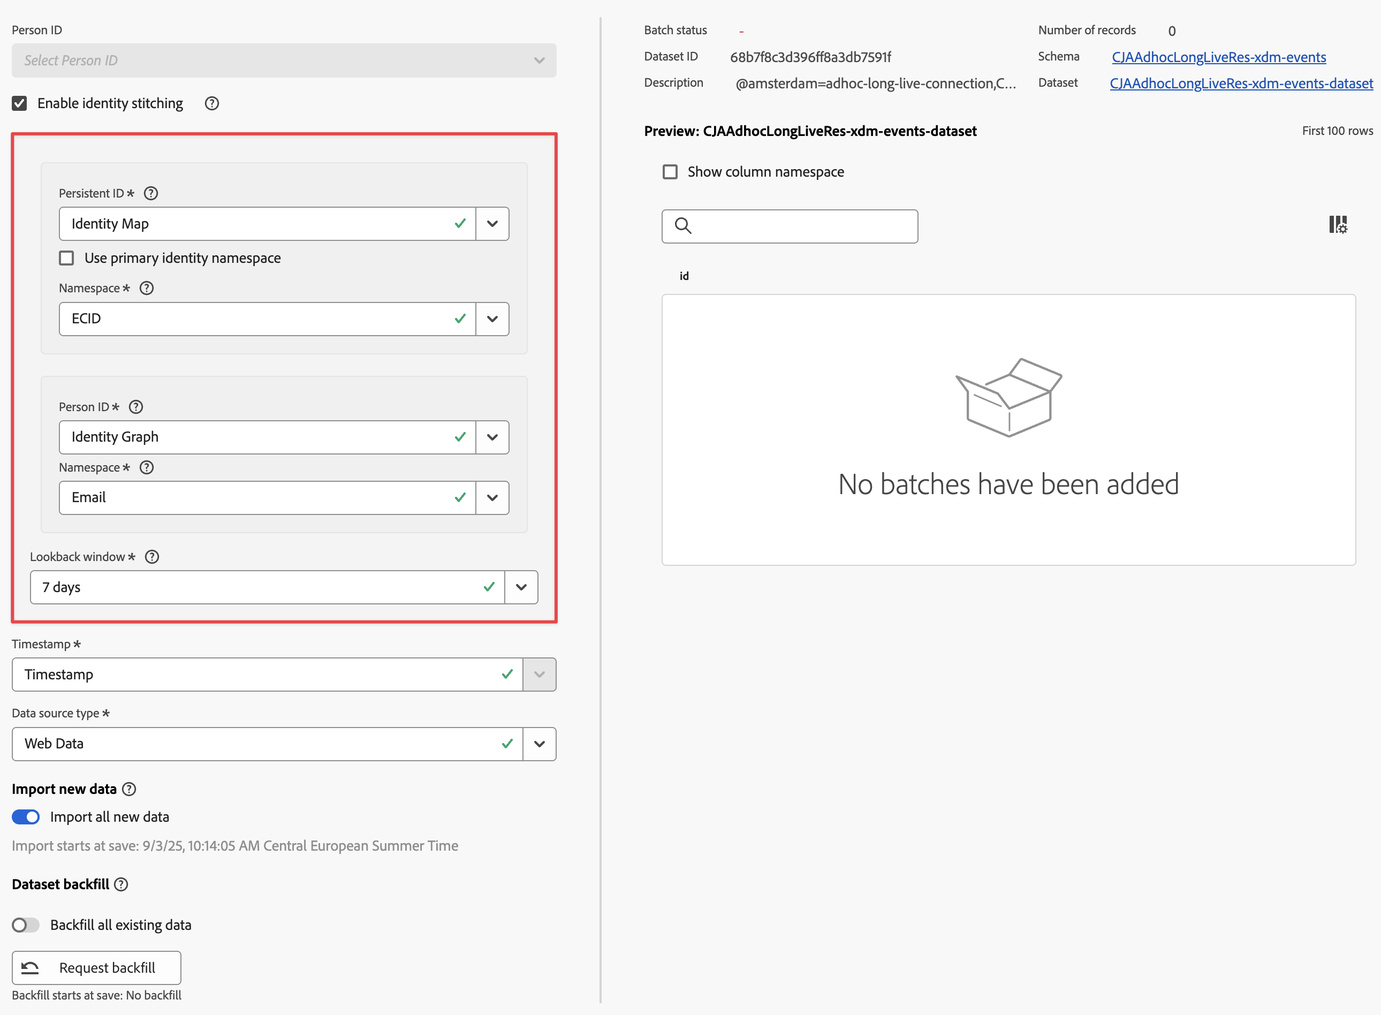
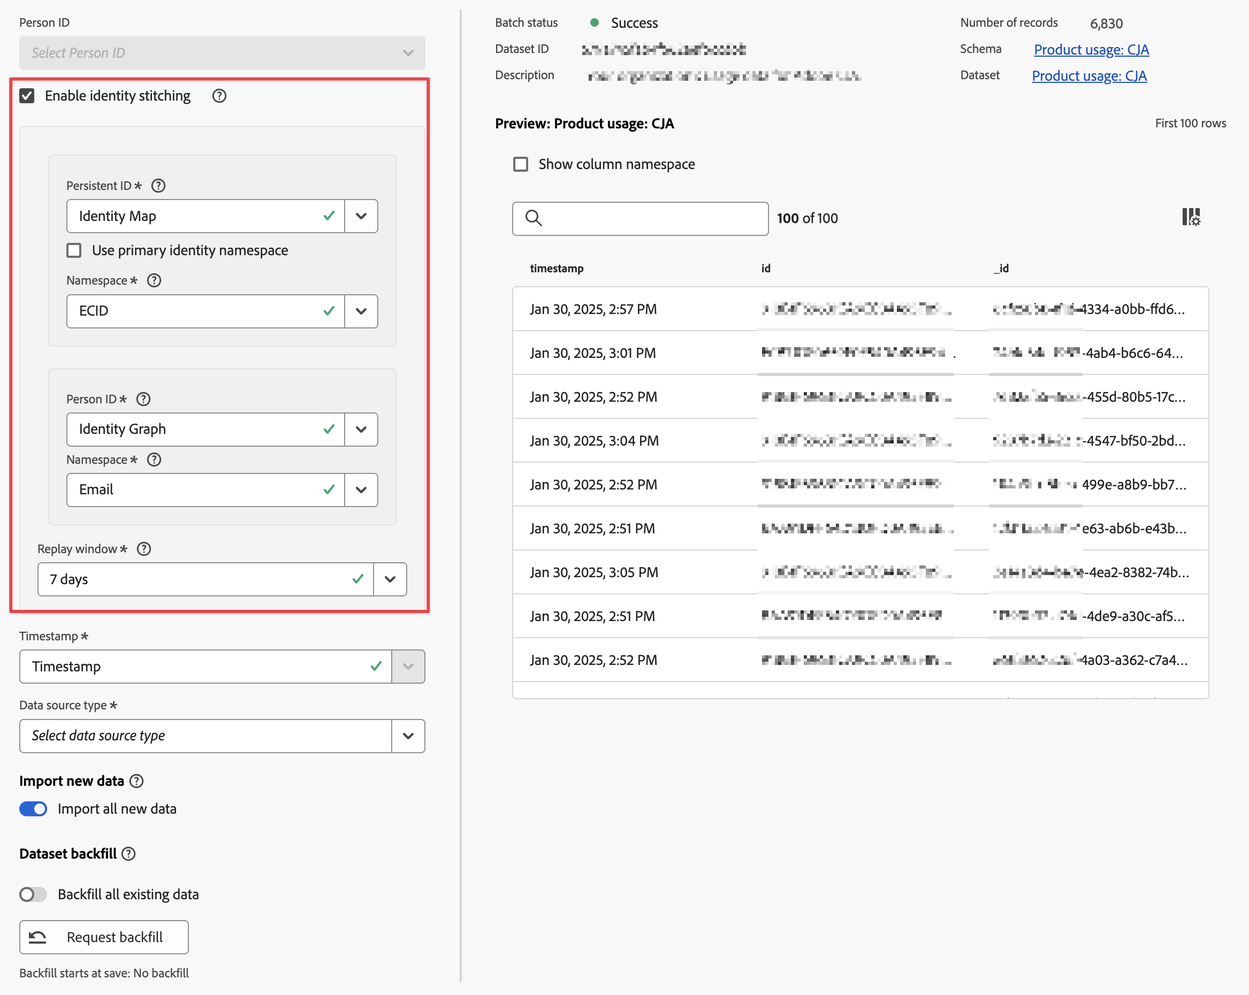
Updates based on feedback

diff --git a/help/stitching/use-stitching-ui.md b/help/stitching/use-stitching-ui.md
@@ -14,22 +14,19 @@ You can enable stitching as part of the [dataset settings](/help/connections/cre
 
 ## Prerequisites
 
-To enable stitching on an event dataset within the Connections UI: 
+You need to check and meet the prerequisites for the stitching method you specify: [field-based stitching](fbs.md#prerequisites) or [graph-based stitching](gbs.md#prerequisites).
 
-* The schema on which the dataset is based should have:
-
-  * multiple fields that are configured as an identity, and which allows you to select different values for a persistent ID and a person ID.
-  * at least one field that is marked as primary identity with an associated namespace in case you want to use Identity Map and the primary identity namespace for persistent ID or person ID.
-
-* If you want to use graph-based stitching and you anticipate the event dataset to contribute to the Identity Graph (as the dataset contains relevant person IDs next to persistent IDs), you should [enable the dataset for the Identity service](/help/stitching/faq.md#enable-a-dataset-for-the-identity-service).
 
 ## Preflight checks
 
 If you meet the prerequisites, you might want to perform some preflight checks on the data in the event dataset before you enable identity stitching:
 
-* Ensure that identities are marked properly in the schema for the event dataset. [See Identity namespace overview](https://experienceleague.adobe.com/en/docs/experience-platform/identity/features/namespaces).
+* f you are going to use XDM schema fields for persistent ID /person ID, ensure that identities are marked properly in the schema for the event dataset. [See Identity namespace overview](https://experienceleague.adobe.com/en/docs/experience-platform/identity/features/namespaces).
 * Verify identity coverage for both persistent ID and person ID:
-  * Persistent ID: Query 7 days of data where your persistent ID field is not null and divide by a query of 7 days of data for all events in your dataset. This percentage should be above 95%.
+  
+  * **Persistent ID**
+  
+    Query 7 days of data where your persistent ID field is not null and divide by a query of 7 days of data for all events in your dataset. This percentage should be above 95%.
 
     Example of a query you could use for verification:
 
@@ -54,39 +51,35 @@ If you meet the prerequisites, you might want to perform some preflight checks o
     * `{END_DATE}` is the end date in standard format. For example: `2024-01-08 00:00:00`.
   
 
-  * Person ID - Query 7 days of data where your person ID field is not null and divide by a query of 7 days of data for all events in your dataset. This percentage should be above 5%.
+  * **Person ID**
+    * For graph-based stitching, ensure the identity graph contains fragments that link ID values from your chosen persistent ID namespace and person ID namespace. You could run a test by going to the [Experience Platform Identity graph viewer](https://experienceleague.adobe.com/en/docs/experience-platform/identity/features/identity-graph-viewer){target="_blank"} and query the graph by some test persistent ID values. Verify to see if these persistent ID values are linked to Person ID values in the graph.
+    * For field-based stitching, query 7 days of data where your person ID field is not null and divide by a query of 7 days of data for all events in your dataset. This percentage should ideally above 5%.
 
-     Example of a query you could use for verification:
+      Example of a query you could use for verification:
 
-    ```sql
-    SELECT
-      COUNT(*) AS total_events,
-      COUNT({PERSON_ID_FIELD}) AS events_with_personid,
-      ROUND(COUNT({PERSON_ID_FIELD}) / COUNT(*), 2) AS percent_with_personid_not_null
-    FROM 
-      {DATASET_TABLE_NAME}
-    WHERE
-      TO_TIMESTAMP(timestamp, '{FORMAT_STRING}') >= TIMESTAMP '{START_DATE}'
-      AND TO_TIMESTAMP(timestamp, 'FORMAT_STRING') < TIMESTAMP '{END_DATE}';
-    ```
+      ```sql
+      SELECT
+        COUNT(*) AS total_events,
+        COUNT({PERSON_ID_FIELD}) AS events_with_personid,
+        ROUND(COUNT({PERSON_ID_FIELD}) / COUNT(*), 2) AS percent_with_personid_not_null
+      FROM 
+        {DATASET_TABLE_NAME}
+      WHERE
+        TO_TIMESTAMP(timestamp, '{FORMAT_STRING}') >= TIMESTAMP '{START_DATE}'
+        AND TO_TIMESTAMP(timestamp, 'FORMAT_STRING') < TIMESTAMP '{END_DATE}';
+      ```
 
-    Where:
+      Where:
 
-    * `{PERSON_ID_FIELD}` is the field for the person ID. For example: `identityMap.crmId[0]`.
-    * `{DATASET_TABLE_NAME}` is the table name for the event dataset.
-    * `{FORMAT_STRING}` is the format string for the timestamp field. For example: `MM/DD/YY HH12:MI AM`.
-    * `{START_DATE}` is the start date. For example: `2024-01-01 00:00:00`.
-    * `{END_DATE}` is the end date in standard format. For example: `2024-01-08 00:00:00`.
+      * `{PERSON_ID_FIELD}` is the field for the person ID. For example: `identityMap.crmId[0]`.
+      * `{DATASET_TABLE_NAME}` is the table name for the event dataset.
+      * `{FORMAT_STRING}` is the format string for the timestamp field. For example: `MM/DD/YY HH12:MI AM`.
+      * `{START_DATE}` is the start date. For example: `2024-01-01 00:00:00`.
+      * `{END_DATE}` is the end date in standard format. For example: `2024-01-08 00:00:00`.
   
 
 
 ## Enable identity stitching
-
->[!NOTE]
->
->If **[!UICONTROL Enable identity stitching]** is not available in the Connections interface, use the [request procedure to enable stitching](/help/stitching/use-stitching.md) on a dataset.
-
-
 
 To enable stitching, in the event dataset section of the **[!UICONTROL Add datasets]** or **[!UICONTROL Edit dataset]** dialog: 
 
@@ -94,7 +87,7 @@ To enable stitching, in the event dataset section of the **[!UICONTROL Add datas
 
 1. Select **[!UICONTROL Enable identity stitching]**.
    
-   If you enable stitching for an existing event dataset, the **[!UICONTROL Change Person ID]** dialog displays the implications of a change of the person ID due to the use of stitching. Select **[!UICONTROL Continue]** to continue.
+   If you enable or disable stitching for a saved event dataset in the connection, the **[!UICONTROL Change Person ID]** dialog displays the implications of a change of the person ID. Select **[!UICONTROL Continue]** to continue.
 
    The **[!UICONTROL Enable identity stitching]** dialog summarizes the consequences of stitching identities. Select **[!UICONTROL Continue]** to continue.
 
@@ -120,12 +113,12 @@ To enable stitching, in the event dataset section of the **[!UICONTROL Add datas
    >Ensure that you are entitled to use the identity graph.
    >
 
-   Before that, a **[!UICONTROL Change to identity graph]** dialog is displayed to ensure you have [finished the setup of the identity graph for the dataset](/help/stitching/faq.md#enable-a-dataset-for-the-identity-service) before you use the identity graph for stitching. Select **[!UICONTROL Continue]** to continue.
+   Before that, a **[!UICONTROL Change to identity graph]** dialog is displayed to ensure you have finished the setup of the identity graph for the dataset as part of the [graph-based prerequisites](/help/stitching/gbs.md#prerequisites) before you use the identity graph for stitching. Select **[!UICONTROL Continue]** to continue.
 
    * Select a namespace from the **[!UICONTROL Namespace]** drop-down menu.
 
 
-1. Select a lookback window from the **[!UICONTROL Lookback window]** drop-down menu. The available options are  dependent on the Customer Journey Analytics package that you are entitled to.
+1. Select a replay window from the **[!UICONTROL Replay window]** drop-down menu. The available options are  dependent on the Customer Journey Analytics package that you are entitled to.
 
 Once you save a connection, the stitching process for datasets that are enabled for stitching kicks when the ingestion of data for these datasets starts.
 

diff --git a/help/connections/create-connection.md b/help/connections/create-connection.md
@@ -798,7 +798,7 @@ If you select Identity Map, you get two additional configuration options:
 
 |Option|Description|
 |---|---|
-| **[!UICONTROL Use Primary ID Namespace]** | This option instructs Customer Journey Analytics to find the identity in the Identity Map that is marked with a `primary=true` attribute and use that identity as the Person ID for that row. This identity is the primary key that is used in Experience Platform for partitioning. And this identity is also the prime candidate for usage as Customer Journey Analytics Person ID (depending on how the dataset is configured in a Customer Journey Analytics connection).|
+| **[!UICONTROL Use primary identity namespace]** | This option instructs Customer Journey Analytics to find the identity in the Identity Map that is marked with a `primary=true` attribute and use that identity as the Person ID for that row. This identity is the primary key that is used in Experience Platform for partitioning. And this identity is also the prime candidate for usage as Customer Journey Analytics Person ID (depending on how the dataset is configured in a Customer Journey Analytics connection).|
 | **[!UICONTROL Namespace]**| (This option is only available if you do not use the Primary ID Namespace.) Identity namespaces are a component of the [Experience Platform Identity Service](https://experienceleague.adobe.com/en/docs/experience-platform/identity/features/namespaces). Namespaces serve as indicators of the context to which an identity relates. If you specify a namespace, Customer Journey Analytics searches each row's Identity Map for this namespace key and use the identity under that namespace as the Person ID for that row. Since Customer Journey Analytics cannot do a full dataset scan of all rows to determine which namespaces are present, all possible namespaces are displayed in the drop-down menu. Know which namespaces are specified in the data; these namespaces are not auto-detected. |
 
 {style="table-layout:auto"}
@@ -809,8 +809,8 @@ This table shows the two configuration options when edge cases are present and h
 
 | Option | No IDs are present in the Identity Map | Multiple IDs, none marked as primary | Multiple IDs are marked as primary | Single ID, marked as primary or not | Invalid namespace with an ID marked as primary |
 |---|---|---|---|---|---|
-| **[!UICONTROL Use Primary ID Namespace] checked** | Customer Journey Analytics drops the row. | Customer Journey Analytics drops the row, as no primary ID is specified. | All IDs marked as primary, under all namespaces, are extracted into a list. They are then alphabetically sorted; with the new sorting, the first namespace with its first ID is used as the Person ID. | The single ID is used as the Person ID. | Even though the namespace may be invalid (not present in Adobe Experience Platform), Customer Journey Analytics uses the primary ID under that namespace as the Person ID. |
-| **[!UICONTROL Specific Identity Map namespace] selected** | Customer Journey Analytics drops the row. | All IDs under the selected namespace are extracted into a list and the first is used as the Person ID. | All IDs under the selected namespace are extracted into a list and the first is used as the Person ID. | All IDs under the selected namespace are extracted into a list and the first is used as the Person ID. | All IDs under the selected namespace are extracted into a list and the first is used as the Person ID. (Only a valid namespace can be selected at Connection creation time, so it is not possible for an invalid namespace/ID to be used as Person ID) |
+| **[!UICONTROL Use primary identity namespace] checked**<br/>![Use primary identity namespace](assets/use-primary-identity-namespace.png) | Customer Journey Analytics drops the row. | Customer Journey Analytics drops the row, as no primary ID is specified. | All IDs marked as primary, under all namespaces, are extracted into a list. They are then alphabetically sorted; with the new sorting, the first namespace with its first ID is used as the Person ID. | The single ID is used as the Person ID. | Even though the namespace may be invalid (not present in Adobe Experience Platform), Customer Journey Analytics uses the primary ID under that namespace as the Person ID. |
+| **[!UICONTROL Specific Identity Map namespace] selected**<br/>![Not use primary identity namespace](assets/not-use-primary-identity-namespace.png)| Customer Journey Analytics drops the row. | All IDs under the selected namespace are extracted into a list and the first is used as the Person ID. | All IDs under the selected namespace are extracted into a list and the first is used as the Person ID. | All IDs under the selected namespace are extracted into a list and the first is used as the Person ID. | All IDs under the selected namespace are extracted into a list and the first is used as the Person ID. (Only a valid namespace can be selected at Connection creation time, so it is not possible for an invalid namespace/ID to be used as Person ID) |
 
 {style="table-layout:auto"}
 

diff --git a/help/stitching/overview.md b/help/stitching/overview.md
@@ -10,11 +10,11 @@ role: Admin
 
 >[!NOTE]
 >
->You must have the **Select** package or higher (for [field-based stitching](fbs.md)) or **Prime** package or higher (for [graph-based stitching](gbs.md)) to use the functionality described in this section. Contact your administrator if you're unsure which Customer Journey Analytics package you have.
+>You must have the Customer Journey Analytics **Select** package or higher (for [field-based stitching](fbs.md)) or the Customer Journey Analytics **Prime** package or higher (for [graph-based stitching](gbs.md)) to use the functionality described in this section. Contact your administrator if you're unsure which Customer Journey Analytics package you have.
 
 Identity stitching (or simply, stitching) is a powerful feature that elevates an event dataset's suitability for cross-channel analysis. Cross-channel analysis is a main use case for Customer Journey Analytics. The feature allows you to combine and run reports seamlessly on multiple datasets from different channels, based on a common identifier (person ID).
 
-When you combine datasets with similar person IDs, attribution is carried over across devices and channels. For example, a user visits your site through an advertisement on their desktop computer. The users buys a product but then the user encounters an issue with the order order. The user then gives your customer service team a call to help resolve the issue. With cross-channel analysis, you can attribute call center events to the ad that the user originally clicked.
+When you combine datasets with similar person IDs, attribution is carried over across devices and channels. For example, a user visits your site through an advertisement on their desktop computer. The user buys a product but then the user encounters an issue with the order. The user then gives your customer service team a call to help resolve the issue. With cross-channel analysis, you can attribute call center events to the ad that the user originally clicked.
 
 Unfortunately, not all event-based datasets that are part of your connection in Customer Journey Analytics are sufficiently populated with data to support this attribution out of the box. Especially, web-based or mobile-based experience datasets often don't have actual person ID information available on all events.
 
@@ -30,7 +30,7 @@ Customer Journey Analytics supports two types of stitching: [field-based stitchi
 
 Before using stitching, make sure that your organization is prepared with the following:
 
-- Stitching includes merging authenticated and unauthenticated user data. Ensure that you comply with applicable laws and regulations, including obtaining necessary end-user permissions, before activating stitching on an event dataset. See [Define identity fields in the UI](https://experienceleague.adobe.com/en/docs/experience-platform/xdm/ui/fields/identity) for more information.
+- Stitching includes merging authenticated and unauthenticated user data. Ensure that you comply with applicable laws and regulations, including obtaining necessary end-user permissions, before activating stitching on an event dataset.
 
 - Import the desired data into Adobe Experience Platform:
   
@@ -47,15 +47,6 @@ You can enable stitching in two ways:
 - [Enable stitching in the Connections interface](/help/stitching/use-stitching-ui.md). When you configure stitching for a dataset in the Connections interface, the stiching occurs 'on the fly', during the ingestion of data from that dataset in Customer Journey Analytics.
 
 ## Limitations
-
->[!IMPORTANT]
->
->
->- Apply any change that you make to the source event dataset schema also to the new stitched dataset schema.
->
->- If you remove the source dataset, the stitched dataset stops processing and gets removed by the system.
->
->- Data usage labels are not automatically propagated to the stitched dataset schema. If you have data usage labels applied to the source dataset schema, you need to apply these data usage labels manually to the stitched dataset schema. See [Managing data usage labels in Experience Platform](https://experienceleague.adobe.com/en/docs/experience-platform/data-governance/labels/overview) for more information.
 
 Stitching is a groundbreaking and robust feature, but has limitations on how it can be used. 
 

diff --git a/help/stitching/gbs.md b/help/stitching/gbs.md
@@ -8,12 +8,7 @@ exl-id: ea5c9114-1fc3-4686-b184-2850acb42b5c
 ---
 # Graph-based stitching
 
-In graph-based stitching, you specify an event dataset as well as the persistent ID (cookie) and the namespace of the person ID for that dataset. Graph-based stitching adds a new column for the stitched ID to the event dataset. And then uses the persistent ID to query the identity graph from the Experience Platform Identity Service, using the namespace specified, to update the stitched ID.
-
->[!NOTE]
->
->You must ensure the dataset is [enabled for the Identity Service](/help/stitching/faq.md#enable-a-dataset-for-the-identity-service).
->
+In graph-based stitching, you specify an event dataset. And for that event dataset you specify the persistent ID (cookie) and the desired stitching namespace from the identity graph holding person ID values. Graph-based stitching adds a new column for the stitched ID to the event dataset. The persistent ID is used to query the identity graph from the Experience Platform Identity Service, using the stitching namespace specified, to update the stitched ID.
 
 
 ![Graph-based-stitching](/help/stitching/assets/gbs.png)
@@ -200,8 +195,13 @@ The following table represents the same data as above, but shows the effect that
 The following prerequisites apply specifically to graph-based stitching:
 
 - The event dataset in Adobe Experience Platform, to which you want to apply stitching, must have one column that identifies a profile on every row, the **persistent ID**. For example, a visitor ID generated by an Adobe Analytics AppMeasurement library or an ECID generated by the Experience Platform Identity Service. 
-- The persistent ID must also be [defined as an identity](https://experienceleague.adobe.com/en/docs/experience-platform/xdm/ui/fields/identity) in the schema.
-- The identity graph from Experience Platform Identity Service must have a namespace (for example `Email`, or `Phone`) you want to use during stitching to resolve the **person ID**. See [Experience Platform Identity Service](https://experienceleague.adobe.com/en/docs/experience-platform/identity/home) for more information.
+- The identity graph from Experience Platform Identity Service  must be set up at sandbox level, prior to enabling Graph-based stitching.
+  - The identity graph must have a namespace (for example `Email`, or `Phone`) that you want to use during stitching to resolve the person ID.
+  - The identity graph must be populated with identities info from any relevant datasets (of type *event* or *profile*, that contain at least two useful namespaces with ID values).
+  - All datasets that hold such relevant identities must be [enabled for identity graph data ingestion](faq.md#enable-a-dataset-for-the-identity-service). This enablement assures incoming identities are added to the graph over time from all needed sources.
+  - If already using Real-Time Customer Data Profile or Adobe Journey Optimizer for a while, the graph should be already set up to a certain extent.<br/>If historical stitching backfill is also required for the dataset enabled with graph-based stitching, the graph should already contain historical identities for the entire period, to obtain desired stitching results.
+- If you want to use graph-based stitching and you anticipate the event dataset to contribute to the Identity Graph (as the dataset contains relevant person IDs next to persistent IDs), you should [enable the dataset for the Identity service](/help/stitching/faq.md#enable-a-dataset-for-the-identity-service).
+- The persistent ID and person ID can be used with [identityMap](#identitymap) or can be fields from the XDM schema, in which case the persistent ID and the person ID must be [defined as an identity](https://experienceleague.adobe.com/en/docs/experience-platform/xdm/ui/fields/identity?lang=en) in the schema.
 
 >[!NOTE]
 >

diff --git a/help/stitching/faq.md b/help/stitching/faq.md
@@ -246,29 +246,31 @@ You must ensure a dataset is enabled for Identity Service to use the dataset in 
 
 You do not have to be licensed for Real-Time Customer Data Platform to make use of graph-based stitching. Graph-based stitching is based on an available identity graph and not on real-time customer profiles.
 
-To enable a dataset for the Identity Service only, use a `POST` request to the `/datasets` endpoint that only uses the `unifiedIdentity` tag. For example:
+To check an existing dataset and enable the dataset for the Identity Service only, use a `PATCH` request to the `/datasets` endpoint that only uses the `unifiedIdentity` tag. For example:
 
 ```shell
-curl -X POST \
-  https://platform.adobe.io/data/foundation/catalog/dataSets \
-  -H 'Content-Type: application/json' \
+curl -X PATCH \
+  https://platform.adobe.io/data/foundation/catalog/dataSets/{DATASET_ID} \
+  -H 'Content-Type:application/json-patch+json' \
   -H 'Authorization: Bearer {ACCESS_TOKEN}' \
   -H 'x-api-key: {API_KEY}' \
   -H 'x-gw-ims-org-id: {ORG_ID}' \
   -H 'x-sandbox-name: {SANDBOX_NAME}' \
-  -d '{
-    "schemaRef": {
-        "id": "https://ns.adobe.com/{TENANT_ID}/schemas/31670881463308a46f7d2cb09762715",
-        "contentType": "application/vnd.adobe.xed-full-notext+json; version=1"
-    },
-    "tags": {
-       "unifiedIdentity": ["enabled:true"]
-    }
-  }'
+  -d '[
+        { "op": "add", "path": "/tags/unifiedProfile", "value": ["enabled:true"] }
+      ]'
 ```
 
 Any use of the `unifiedProfile` tag in the request, while you are not licensed for Real-Time Customer Data Profile, returns an error.
 
-See [Create a dataset enabled for Profile and Identity](https://experienceleague.adobe.com/en/docs/experience-platform/catalog/datasets/enable-for-profile#create-a-dataset-enabled-for-profile-and-identity) for more information.
+See [Create a dataset enabled for Profile and Identity](https://experienceleague.adobe.com/en/docs/experience-platform/catalog/datasets/enable-for-profile#enable-the-dataset) for more information.
 
 +++ 
+
+
+## Stitched namespace values
+
++++ Why do stiched namespace values not always match the identity namespace value you might use within another dataset within the CJA connection?
+
+By default stitched namespace values are lowercase. So, `custEmail` becomes `custemail`. If you do have another dataset with an identity namespace value of `custEmail`, the two values do not match. To work around this behavior in reporting, you could use the [lowercase()](/help/data-views/derived-fields/derived-fields.md#lowercase) derived field function to match the identity namespace values.
+

diff --git a/help/stitching/use-stitching.md b/help/stitching/use-stitching.md
@@ -14,9 +14,7 @@ exl-id: a04c74ab-606e-45a9-a3e4-0d476c8d2426
 >Request stitching through Adobe is no longer required and this method is deprecated. [Enable stitching in the Connections UI](use-stitching-ui.md).
 >
 
-
-
-Once your organization meets all [prerequisites](overview.md#prerequisites) and understands common [limitations](overview.md#limitations) and stitching method specific ([field-based](fbs.md#limitations) and [graph-based](gbs.md#limitations)) limitations, you can follow these steps to request and start using stitching in Customer Journey Analytics.
+Once your organization meets generic [prerequisites](overview.md#prerequisites), understands common [limitations](overview.md#limitations), and also stitching method specific ([field-based](fbs.md) and [graph-based](gbs.md)) prerequisites and limitations, you can follow these steps to request and start using stitching in Customer Journey Analytics.
 
 ## Select options
 
@@ -56,3 +54,11 @@ The Customer Journey Analytics package you are entitled to determines the availa
 <!-- To do: Paragraph on backfill once product and marketing determine the best way forward. -->
 
 Once the data view is set up, you can run your Customer Journey Analytics reporting analysis across channels and devices.
+
+## Limitations
+
+- Apply any change that you make to the source event dataset schema also to the new stitched dataset schema.
+
+- If you remove the source dataset, the stitched dataset stops processing and gets removed by the system.
+
+- Data usage labels are not automatically propagated to the stitched dataset schema. If you have data usage labels applied to the source dataset schema, you need to apply these data usage labels manually to the stitched dataset schema. See [Managing data usage labels in Experience Platform](https://experienceleague.adobe.com/en/docs/experience-platform/data-governance/labels/overview) for more information.
